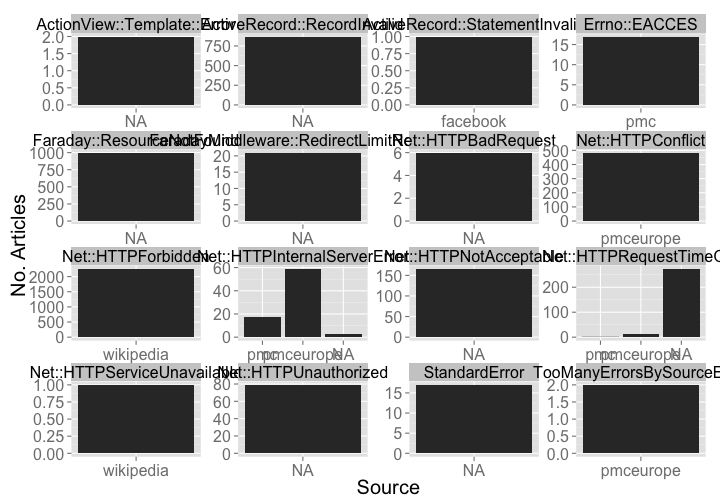
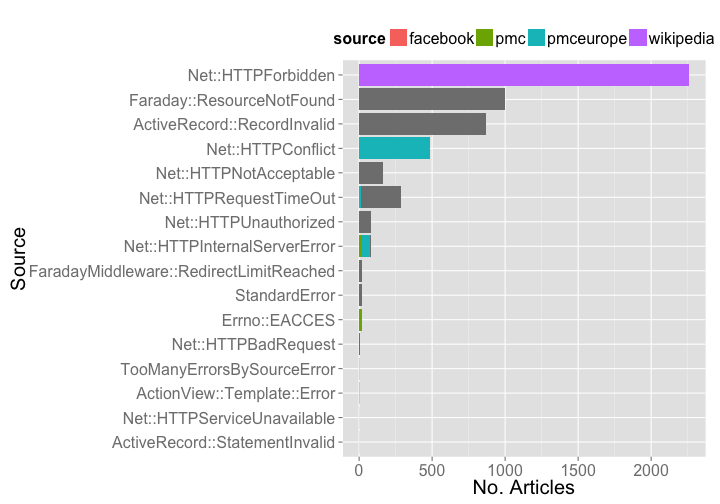
updated crossref report, #8

diff --git a/alerts/crossref_report.md b/alerts/crossref_report.md
@@ -5,7 +5,7 @@ Crossref Report
 
 ### Date 
 
-Compiled on 2014-10-07 19:17:03
+Compiled on 2014-10-08 22:06:38
 
 ### Setup
 
@@ -40,6 +40,7 @@ library('lubridate')
 url <- "http://det.labs.crossref.org/api/v4/alerts"
 user <- getOption('almv4_crossref_user')
 pwd <- getOption('almv4_crossref_pwd')
+cr_v5_key <- getOption('crossrefalmkey')
 ```
 
 ### Get all data
@@ -95,6 +96,8 @@ resdf %>%
 
 By source alone
 
+> NOTE: the NA's are not mistakes, but what is given as the source
+
 
 ```r
 resdf %>%
@@ -116,13 +119,75 @@ source X alert class
 resdf %>%
   group_by(source, class_name) %>%
   summarise(number = length(source)) %>%
-  ggplot(aes(reorder(source, number), number)) +
+  ggplot(aes(reorder(class_name, number), number, fill=source)) +
     geom_histogram(stat = "identity") + 
-#     coord_flip() +
+    coord_flip() +
     theme_grey(base_size = 20) +
-    facet_wrap(~ class_name, scales="free") +
-    labs(x = "Source", y = "No. Articles")
+    labs(x = "Source", y = "No. Articles") +
+    theme(legend.position = "top")
 ```
 
 ![plot of chunk sourcebyclass](figure/sourcebyclass.png) 
 
+Dig into `Net::HTTPForbidden`
+
+
+```r
+library('httr')
+library('jsonlite')
+```
+
+```
+## 
+## Attaching package: 'jsonlite'
+## 
+## The following object is masked from 'package:utils':
+## 
+##     View
+```
+
+```r
+res <- GET('http://det.labs.crossref.org//api/v5/publishers', query=list(api_key=cr_v5_key))
+prefixes <- fromJSON(content(res, "text"))$data[,c('name','prefixes')]
+pre <- prefixes$prefixes
+names(pre) <- prefixes$name
+```
+
+Define functions
+
+
+```r
+splitdoi <- function(x) strsplit(x, "/")[[1]][[1]]
+match_publisher <- function(x, y){
+  names(y[ sapply(y, function(z) x %in% z) ])
+}
+```
+
+Manipulate data
+
+
+```r
+# subset data
+dat <- resdf %>%
+  filter(class_name == "Net::HTTPForbidden") %>%
+  mutate(prefix = splitdoi(article)) %>%
+  select(id, level, class_name, article, prefix, status, source, create_date, target_url)
+
+# get publishers
+pubs <- dat %>%
+  rowwise %>%
+  do( publisher = match_publisher(.$prefix, pre) )
+
+# join the two data.frame's
+alldf <- tbl_df(cbind(dat, pubs))
+alldf$publisher <- as.character(alldf$publisher)
+unique(alldf$publisher)
+```
+
+```
+## [1] "Wiley-Blackwell"
+```
+
+> Note: How all these `Net::HTTPForbidden` erors are 403 errors, and all from Wiley, trying to get Wikipedia data source
+
+The only alert class with article IDs is `Net::HTTPForbidden`.
